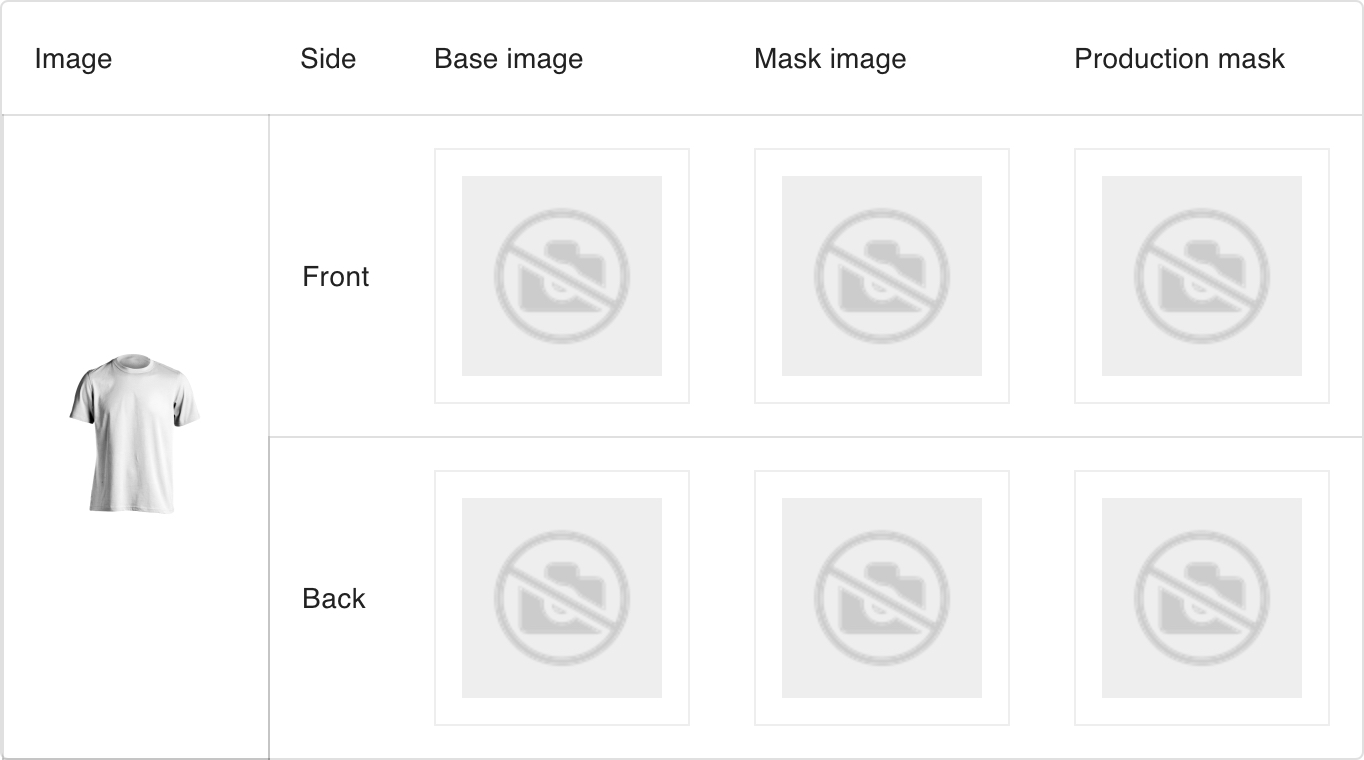
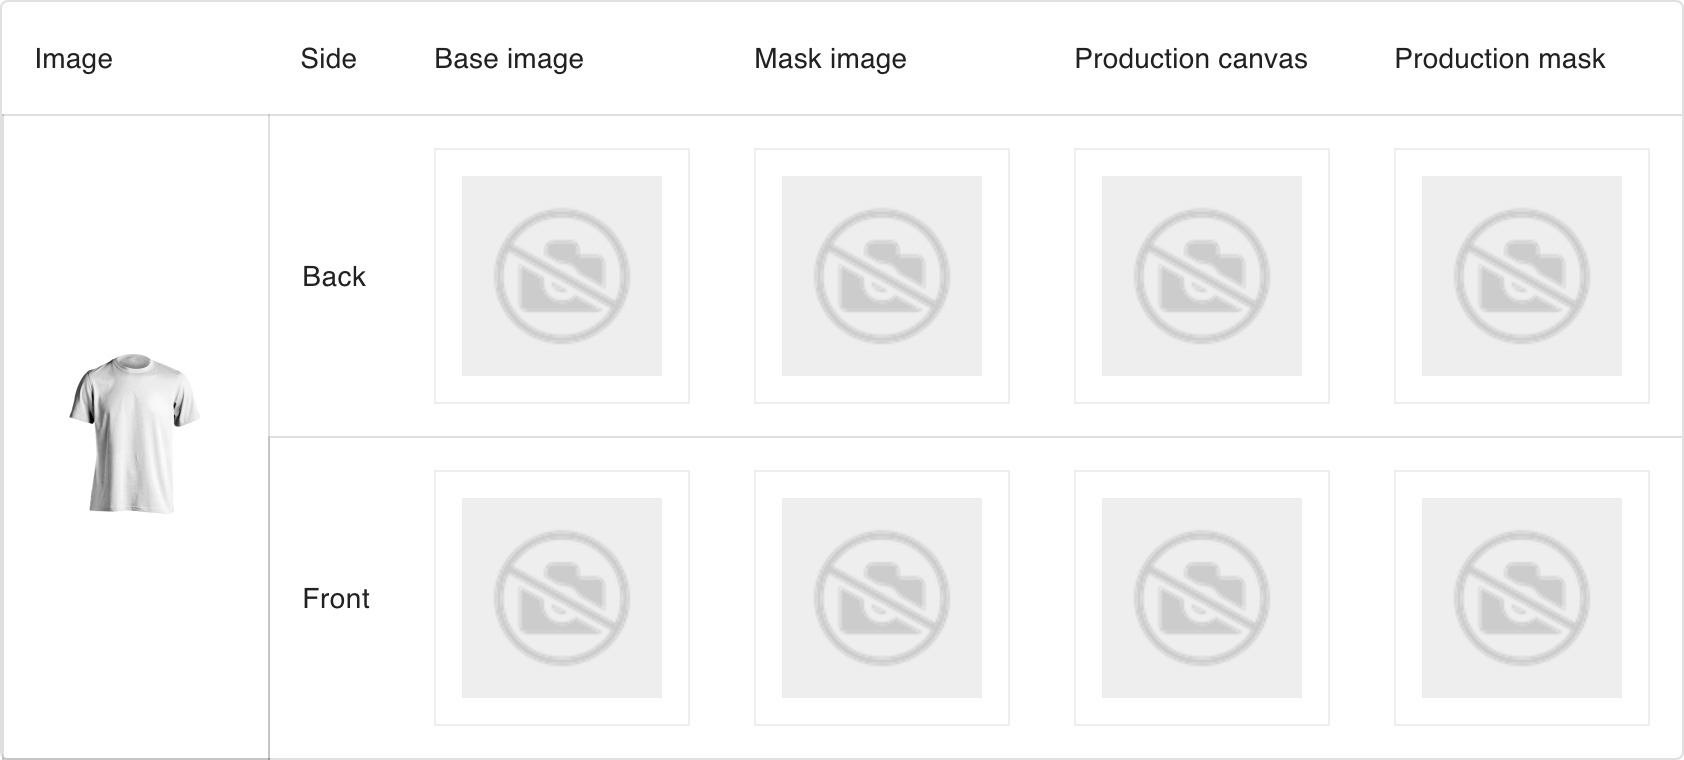
Add production canvas doc

diff --git a/docs/src/productdesigner/product-config/07-images.md b/docs/src/productdesigner/product-config/07-images.md
@@ -9,7 +9,7 @@ In this section, you can configure the images that are displayed in the designer
 This is the image that will be displayed in the designer interface. You can configure a base image
 for each side and for each combination image.
 
-<img srcset="/productdesigner/images/combination-images.jpg 2x">
+<img srcset="/productdesigner/images/combination-images.png 2x">
 
 ## Mask image
 
@@ -39,7 +39,13 @@ only the design that is in the product area will be visible.
 
 Only the part of the design that is under the transparency is visible.
 
+## Production canvas
+
+The production canvas is only included in the final SVG. It's useful when you want to use a large
+background image for production but only show a smaller image in the production page to ensure a
+faster page load.
+
 ## Production mask
 
-The production mask follows the same principles are the [mask image](#mask-image) but is only included in the
-production SVG.
+The production mask follows the same principles are the [mask image](#mask-image) but is only
+included in the production SVG.
